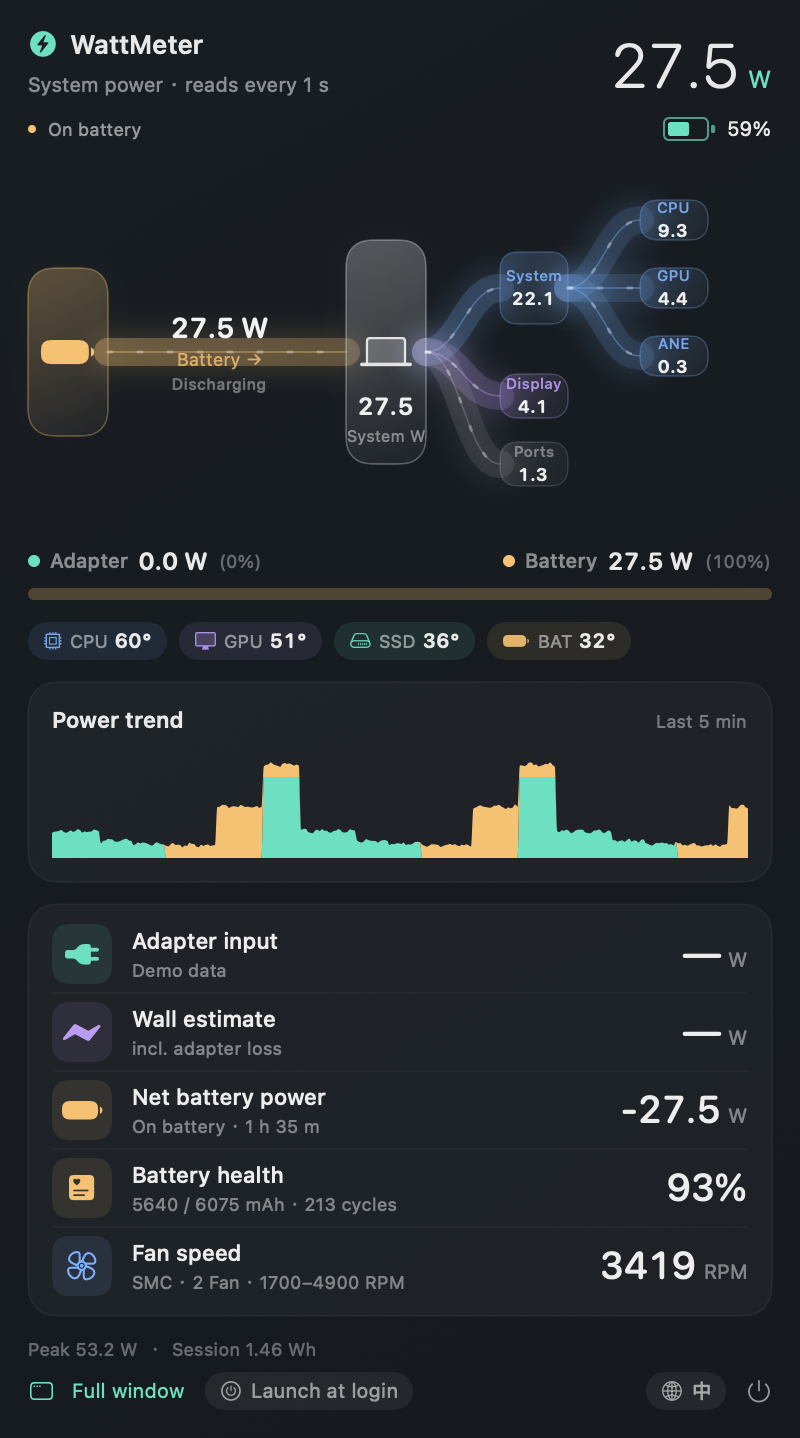
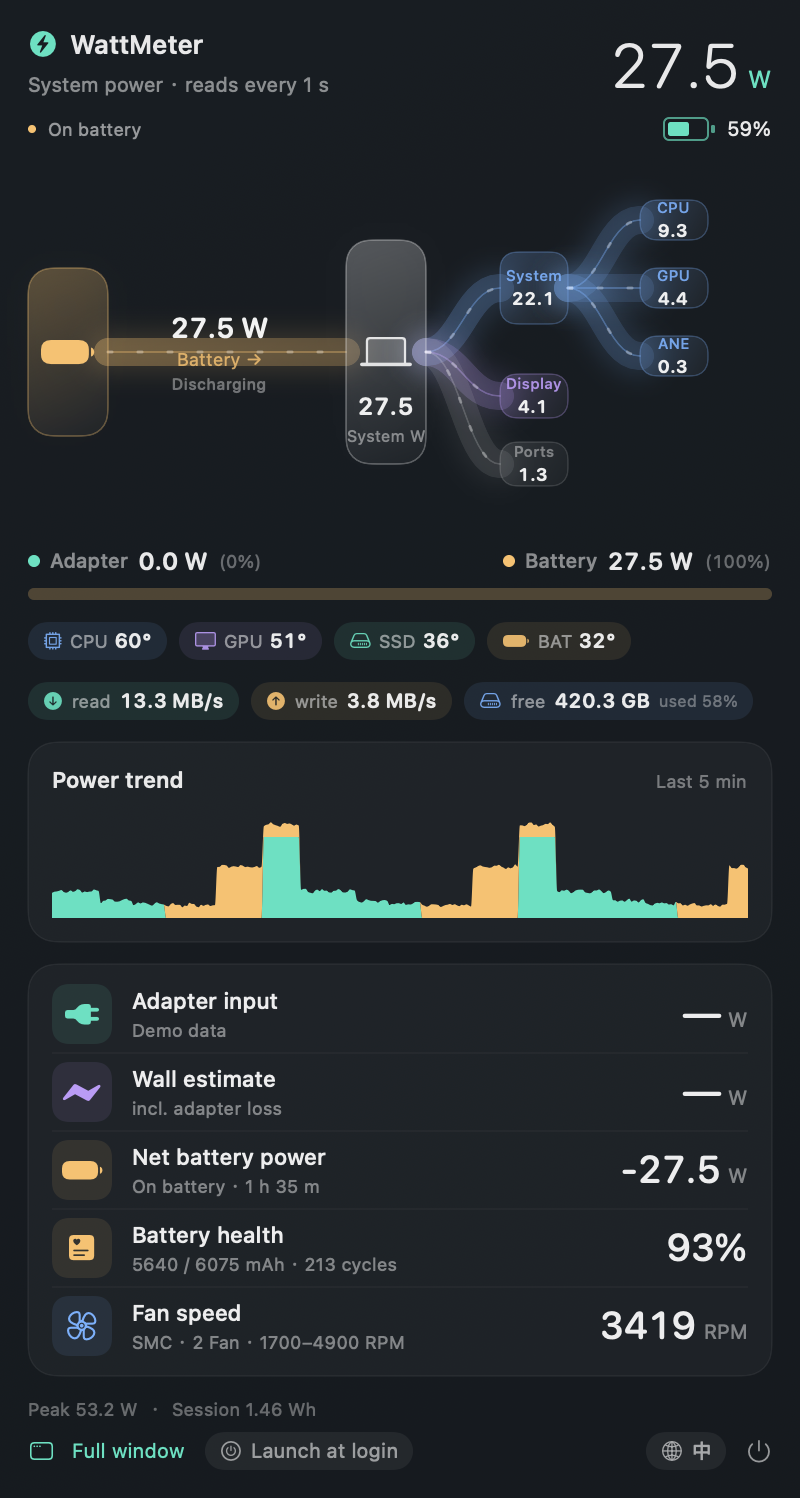
release: 1.5.0
- bump to 1.5.0 (build 11)
- release notes for disk I/O
- refreshed preview screenshots

diff --git a/docs/release-notes-1.5.0.md b/docs/release-notes-1.5.0.md
@@ -1,0 +1,85 @@
+# WattMeter 1.5.0
+
+A native macOS menu-bar power monitor: live power (adapter input by default), adapter vs battery
+split, CPU / GPU / ANE / DRAM power, temperatures, fan speed, and a Sankey-style power-flow diagram.
+
+## New
+
+### Disk read / write throughput
+
+Disk activity is now sampled once per second, from the IORegistry `IOBlockStorageDriver`
+`Statistics` counters (`Bytes (Read)` / `Bytes (Write)`, cumulative since boot):
+
+- **read / write throughput** in MB/s — the per-second delta of those counters
+- **volume free space** of the boot volume, with the used percentage
+- **cumulative read / written since boot**
+- physical disks are summed (internal SSD + external drives); mounted disk images are excluded
+
+Where it shows up:
+
+- **Menu bar panel**: a new strip under the temperature chips — `read 11.4 MB/s`, `write 3.4 MB/s`,
+  `free 420.3 GB · used 58%`. The panel grew from 720 to 750 pt.
+- **Main window**: a “Disk I/O” card under the charts.
+- **Menu bar tooltip**: read / write rates and free space.
+
+### Diagnostics
+
+```bash
+/Applications/WattMeter.app/Contents/MacOS/WattMeter --disk
+```
+
+prints the number of disks, the 1-second read / write rates, the since-boot totals and the boot
+volume capacity.
+
+## Also included since 1.2.2
+
+Everything from 1.3.x and 1.4.0: menu bar shows adapter input (metric switchable), self-healing
+status item, battery health with full-charge / design capacity and cycle count, split line-chart
+Y domain, About window, flow diagram with CPU / GPU / ANE / DRAM branches, English-primary UI with
+Chinese available, launch at login, macOS 13+ universal binary.
+
+## Requirements
+
+- **macOS 13 or later** (macOS 13 / 14 / 15 and newer)
+- **Apple Silicon (M-series) or Intel Mac** — universal binary (`arm64` + `x86_64`)
+- No root, no kernel extension, no network access; the app only reads IOKit / SMC
+
+## Install
+
+1. Download **WattMeter-1.5.0.dmg** and open it.
+2. Drag **WattMeter.app** into Applications, eject.
+3. First launch: right-click → Open (ad-hoc signed), or
+   `xattr -dr com.apple.quarantine /Applications/WattMeter.app`
+
+## 简体中文
+
+### 新增：磁盘读写速率
+
+磁盘状态每秒采样一次，数据来自 IORegistry 的 `IOBlockStorageDriver` → `Statistics`
+（`Bytes (Read)` / `Bytes (Write)`，开机以来的累计字节数）：
+
+- **读写速率**（MB/s）：累计计数器的每秒增量
+- **启动卷可用空间**与已用百分比
+- **本次开机累计读写量**
+- 多块物理磁盘求和（内置 SSD + 外接硬盘），挂载的磁盘映像（DMG）会被排除
+
+显示位置：
+
+- **菜单栏面板**：温度条下方新增一条 —— `读 11.4 MB/s`、`写 3.4 MB/s`、`可用 420.3 GB · 已用 58%`，
+  面板高度 720 → 750；
+- **主窗口**：图表下方新增「磁盘读写」卡片；
+- **菜单栏 tooltip**：读写速率与可用空间。
+
+### 诊断命令
+
+```bash
+/Applications/WattMeter.app/Contents/MacOS/WattMeter --disk
+```
+
+输出磁盘数量、1 秒窗口的读写速率、开机累计读写量，以及启动卷容量。
+
+### 同时包含 1.2.2 以来的全部更新
+
+包括 1.3.x 与 1.4.0 的全部内容：菜单栏默认显示电源输入并可切换口径、状态项自愈、电池健康度
+（满充 / 设计容量与循环次数）、折线图 Y 轴同时覆盖两条曲线、关于窗口、流向图 CPU / GPU / ANE /
+DRAM 分项、界面以英文为主可切中文、登录时启动、macOS 13+ 通用二进制。
